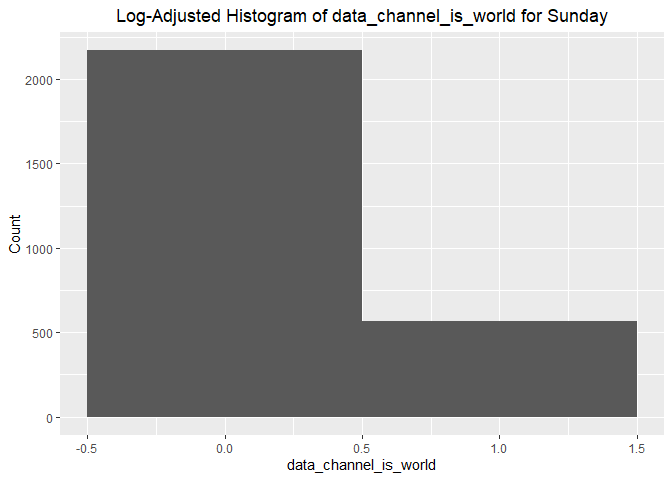
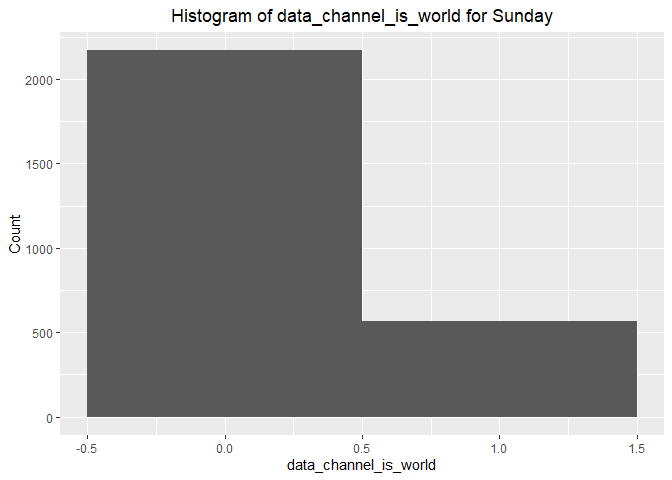
Updated code for charts.

Changed region(s): [[0.1562, 0.0, 0.9062, 0.0625]]

diff --git a/FridayAnalysis.md b/FridayAnalysis.md
@@ -243,7 +243,7 @@ theoretical upper bound.
 ``` r
 g <- ggplot(data = newsDataFiltered, aes(x = global_subjectivity))
 g + geom_histogram(bins = 10) +
-  labs(title = paste0("Log-Adjusted Histogram of global_subjectivity for ", dayOfWeek),
+  labs(title = paste0("Histogram of global_subjectivity for ", dayOfWeek),
        y = "Count") +
   theme(plot.title = element_text(hjust = 0.5))
 ```
@@ -253,7 +253,7 @@ g + geom_histogram(bins = 10) +
 ``` r
 g <- ggplot(data = newsDataFiltered, aes(x = data_channel_is_world))
 g + geom_histogram(bins = 2) +
-  labs(title = paste0("Log-Adjusted Histogram of data_channel_is_world for ", dayOfWeek),
+  labs(title = paste0("Histogram of data_channel_is_world for ", dayOfWeek),
        y = "Count") +
   theme(plot.title = element_text(hjust = 0.5))
 ```
@@ -263,7 +263,7 @@ g + geom_histogram(bins = 2) +
 ``` r
 g <- ggplot(data = newsDataFiltered, aes(x = n_tokens_content))
 g + geom_histogram(bins = 50) +
-  labs(title = paste0("Log-Adjusted Histogram of n_tokens_content for ", dayOfWeek),
+  labs(title = paste0("Histogram of n_tokens_content for ", dayOfWeek),
        y = "Count") +
   theme(plot.title = element_text(hjust = 0.5))
 ```

diff --git a/MondayAnalysis.md b/MondayAnalysis.md
@@ -243,7 +243,7 @@ theoretical upper bound.
 ``` r
 g <- ggplot(data = newsDataFiltered, aes(x = global_subjectivity))
 g + geom_histogram(bins = 10) +
-  labs(title = paste0("Log-Adjusted Histogram of global_subjectivity for ", dayOfWeek),
+  labs(title = paste0("Histogram of global_subjectivity for ", dayOfWeek),
        y = "Count") +
   theme(plot.title = element_text(hjust = 0.5))
 ```
@@ -253,7 +253,7 @@ g + geom_histogram(bins = 10) +
 ``` r
 g <- ggplot(data = newsDataFiltered, aes(x = data_channel_is_world))
 g + geom_histogram(bins = 2) +
-  labs(title = paste0("Log-Adjusted Histogram of data_channel_is_world for ", dayOfWeek),
+  labs(title = paste0("Histogram of data_channel_is_world for ", dayOfWeek),
        y = "Count") +
   theme(plot.title = element_text(hjust = 0.5))
 ```
@@ -263,7 +263,7 @@ g + geom_histogram(bins = 2) +
 ``` r
 g <- ggplot(data = newsDataFiltered, aes(x = n_tokens_content))
 g + geom_histogram(bins = 50) +
-  labs(title = paste0("Log-Adjusted Histogram of n_tokens_content for ", dayOfWeek),
+  labs(title = paste0("Histogram of n_tokens_content for ", dayOfWeek),
        y = "Count") +
   theme(plot.title = element_text(hjust = 0.5))
 ```

diff --git a/SaturdayAnalysis.md b/SaturdayAnalysis.md
@@ -243,7 +243,7 @@ theoretical upper bound.
 ``` r
 g <- ggplot(data = newsDataFiltered, aes(x = global_subjectivity))
 g + geom_histogram(bins = 10) +
-  labs(title = paste0("Log-Adjusted Histogram of global_subjectivity for ", dayOfWeek),
+  labs(title = paste0("Histogram of global_subjectivity for ", dayOfWeek),
        y = "Count") +
   theme(plot.title = element_text(hjust = 0.5))
 ```
@@ -253,7 +253,7 @@ g + geom_histogram(bins = 10) +
 ``` r
 g <- ggplot(data = newsDataFiltered, aes(x = data_channel_is_world))
 g + geom_histogram(bins = 2) +
-  labs(title = paste0("Log-Adjusted Histogram of data_channel_is_world for ", dayOfWeek),
+  labs(title = paste0("Histogram of data_channel_is_world for ", dayOfWeek),
        y = "Count") +
   theme(plot.title = element_text(hjust = 0.5))
 ```
@@ -263,7 +263,7 @@ g + geom_histogram(bins = 2) +
 ``` r
 g <- ggplot(data = newsDataFiltered, aes(x = n_tokens_content))
 g + geom_histogram(bins = 50) +
-  labs(title = paste0("Log-Adjusted Histogram of n_tokens_content for ", dayOfWeek),
+  labs(title = paste0("Histogram of n_tokens_content for ", dayOfWeek),
        y = "Count") +
   theme(plot.title = element_text(hjust = 0.5))
 ```

diff --git a/SundayAnalysis.md b/SundayAnalysis.md
@@ -243,7 +243,7 @@ theoretical upper bound.
 ``` r
 g <- ggplot(data = newsDataFiltered, aes(x = global_subjectivity))
 g + geom_histogram(bins = 10) +
-  labs(title = paste0("Log-Adjusted Histogram of global_subjectivity for ", dayOfWeek),
+  labs(title = paste0("Histogram of global_subjectivity for ", dayOfWeek),
        y = "Count") +
   theme(plot.title = element_text(hjust = 0.5))
 ```
@@ -253,7 +253,7 @@ g + geom_histogram(bins = 10) +
 ``` r
 g <- ggplot(data = newsDataFiltered, aes(x = data_channel_is_world))
 g + geom_histogram(bins = 2) +
-  labs(title = paste0("Log-Adjusted Histogram of data_channel_is_world for ", dayOfWeek),
+  labs(title = paste0("Histogram of data_channel_is_world for ", dayOfWeek),
        y = "Count") +
   theme(plot.title = element_text(hjust = 0.5))
 ```
@@ -263,7 +263,7 @@ g + geom_histogram(bins = 2) +
 ``` r
 g <- ggplot(data = newsDataFiltered, aes(x = n_tokens_content))
 g + geom_histogram(bins = 50) +
-  labs(title = paste0("Log-Adjusted Histogram of n_tokens_content for ", dayOfWeek),
+  labs(title = paste0("Histogram of n_tokens_content for ", dayOfWeek),
        y = "Count") +
   theme(plot.title = element_text(hjust = 0.5))
 ```

diff --git a/ThursdayAnalysis.md b/ThursdayAnalysis.md
@@ -243,7 +243,7 @@ theoretical upper bound.
 ``` r
 g <- ggplot(data = newsDataFiltered, aes(x = global_subjectivity))
 g + geom_histogram(bins = 10) +
-  labs(title = paste0("Log-Adjusted Histogram of global_subjectivity for ", dayOfWeek),
+  labs(title = paste0("Histogram of global_subjectivity for ", dayOfWeek),
        y = "Count") +
   theme(plot.title = element_text(hjust = 0.5))
 ```
@@ -253,7 +253,7 @@ g + geom_histogram(bins = 10) +
 ``` r
 g <- ggplot(data = newsDataFiltered, aes(x = data_channel_is_world))
 g + geom_histogram(bins = 2) +
-  labs(title = paste0("Log-Adjusted Histogram of data_channel_is_world for ", dayOfWeek),
+  labs(title = paste0("Histogram of data_channel_is_world for ", dayOfWeek),
        y = "Count") +
   theme(plot.title = element_text(hjust = 0.5))
 ```
@@ -263,7 +263,7 @@ g + geom_histogram(bins = 2) +
 ``` r
 g <- ggplot(data = newsDataFiltered, aes(x = n_tokens_content))
 g + geom_histogram(bins = 50) +
-  labs(title = paste0("Log-Adjusted Histogram of n_tokens_content for ", dayOfWeek),
+  labs(title = paste0("Histogram of n_tokens_content for ", dayOfWeek),
        y = "Count") +
   theme(plot.title = element_text(hjust = 0.5))
 ```

diff --git a/TuesdayAnalysis.md b/TuesdayAnalysis.md
@@ -243,7 +243,7 @@ theoretical upper bound.
 ``` r
 g <- ggplot(data = newsDataFiltered, aes(x = global_subjectivity))
 g + geom_histogram(bins = 10) +
-  labs(title = paste0("Log-Adjusted Histogram of global_subjectivity for ", dayOfWeek),
+  labs(title = paste0("Histogram of global_subjectivity for ", dayOfWeek),
        y = "Count") +
   theme(plot.title = element_text(hjust = 0.5))
 ```
@@ -253,7 +253,7 @@ g + geom_histogram(bins = 10) +
 ``` r
 g <- ggplot(data = newsDataFiltered, aes(x = data_channel_is_world))
 g + geom_histogram(bins = 2) +
-  labs(title = paste0("Log-Adjusted Histogram of data_channel_is_world for ", dayOfWeek),
+  labs(title = paste0("Histogram of data_channel_is_world for ", dayOfWeek),
        y = "Count") +
   theme(plot.title = element_text(hjust = 0.5))
 ```
@@ -263,7 +263,7 @@ g + geom_histogram(bins = 2) +
 ``` r
 g <- ggplot(data = newsDataFiltered, aes(x = n_tokens_content))
 g + geom_histogram(bins = 50) +
-  labs(title = paste0("Log-Adjusted Histogram of n_tokens_content for ", dayOfWeek),
+  labs(title = paste0("Histogram of n_tokens_content for ", dayOfWeek),
        y = "Count") +
   theme(plot.title = element_text(hjust = 0.5))
 ```

diff --git a/WednesdayAnalysis.md b/WednesdayAnalysis.md
@@ -243,7 +243,7 @@ theoretical upper bound.
 ``` r
 g <- ggplot(data = newsDataFiltered, aes(x = global_subjectivity))
 g + geom_histogram(bins = 10) +
-  labs(title = paste0("Log-Adjusted Histogram of global_subjectivity for ", dayOfWeek),
+  labs(title = paste0("Histogram of global_subjectivity for ", dayOfWeek),
        y = "Count") +
   theme(plot.title = element_text(hjust = 0.5))
 ```
@@ -253,7 +253,7 @@ g + geom_histogram(bins = 10) +
 ``` r
 g <- ggplot(data = newsDataFiltered, aes(x = data_channel_is_world))
 g + geom_histogram(bins = 2) +
-  labs(title = paste0("Log-Adjusted Histogram of data_channel_is_world for ", dayOfWeek),
+  labs(title = paste0("Histogram of data_channel_is_world for ", dayOfWeek),
        y = "Count") +
   theme(plot.title = element_text(hjust = 0.5))
 ```
@@ -263,7 +263,7 @@ g + geom_histogram(bins = 2) +
 ``` r
 g <- ggplot(data = newsDataFiltered, aes(x = n_tokens_content))
 g + geom_histogram(bins = 50) +
-  labs(title = paste0("Log-Adjusted Histogram of n_tokens_content for ", dayOfWeek),
+  labs(title = paste0("Histogram of n_tokens_content for ", dayOfWeek),
        y = "Count") +
   theme(plot.title = element_text(hjust = 0.5))
 ```
